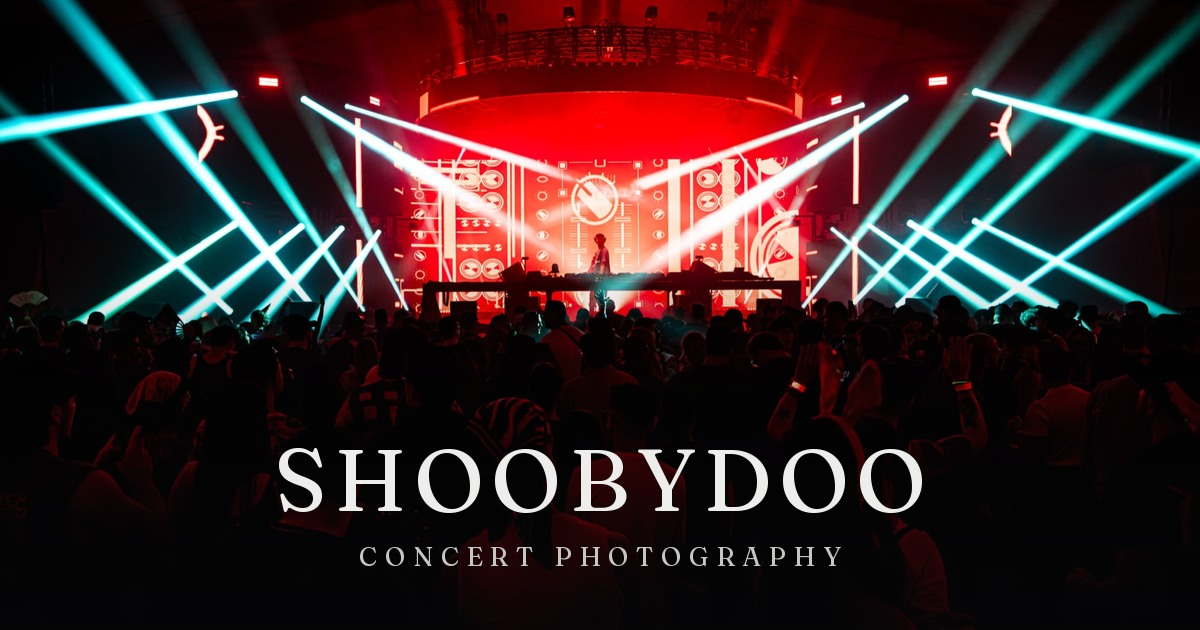
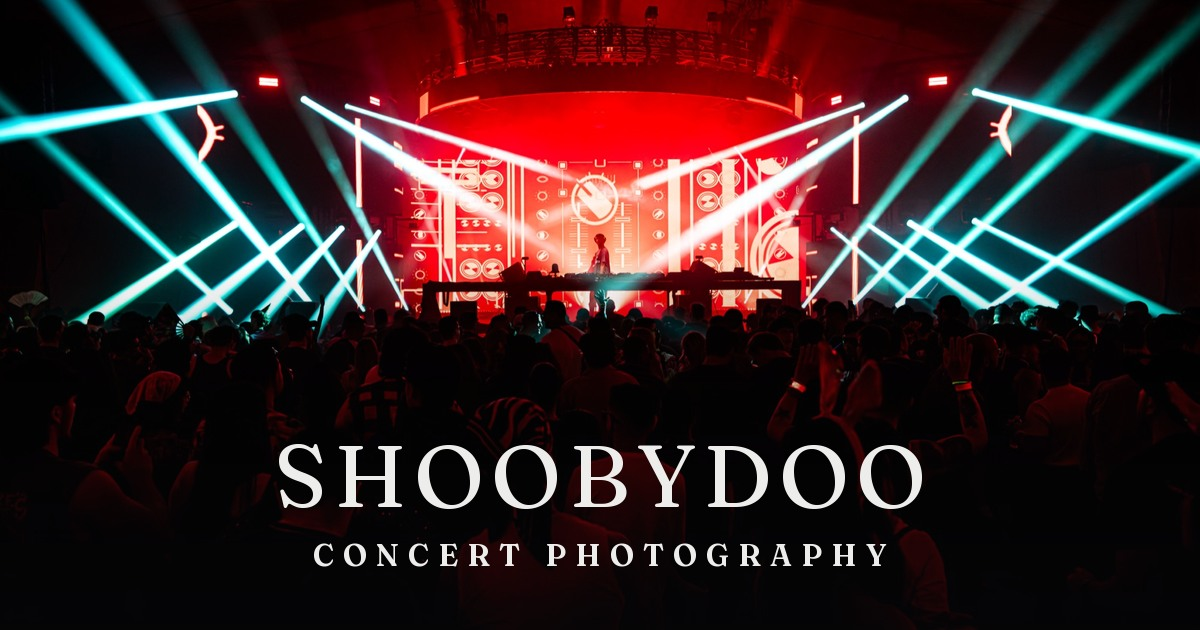
OG card: bolder, brighter Concert Photography tagline
The tagline was thin Fraunces 400 at 26px in muted grey and unreadable at
share-card sizes. Instantiate a semibold (600) cut from the same variable
woff2 the site ships, bump to 30px, and set it in the wordmark's ink white.

Changed region(s): [[0.2158, 0.6937, 0.7708, 0.8143], [0.2467, 0.8444, 0.74, 0.9048]]

diff --git a/scripts/make-og.py b/scripts/make-og.py
@@ -8,8 +8,9 @@ covered. Type matches SiteWordmark.tsx: Fraunces, uppercase, 0.08em tracking,
 
 Fraunces reaches the browser via next/font/google, which only ever writes woff2
 into .next/. PIL can't read woff2 and .next/ is regenerable, so the latin subset
-is instantiated at wght=400 and kept in scripts/og-assets/. To re-extract it
-after a font change, pull the Fraunces woff2 out of the build cache:
+is instantiated at wght=400 (wordmark) and wght=600 (tagline) and kept in
+scripts/og-assets/. To re-extract after a font change, pull the Fraunces woff2
+out of the build cache:
 
     grep -A1 'font-family: Fraunces' .next/dev/static/chunks/*fraunces*.css
 
@@ -32,16 +33,16 @@ from PIL import Image, ImageDraw, ImageFont
 ROOT = Path(__file__).resolve().parent.parent
 SOURCE = ROOT / "public/events/insomnia-2026/_7R45554-Enhanced-NR.jpg"
 FONT = ROOT / "scripts/og-assets/fraunces-400.ttf"
+TAGLINE_FONT = ROOT / "scripts/og-assets/fraunces-600.ttf"
 OUT = ROOT / "src/app/opengraph-image.jpg"
 
 W, H = 1200, 630  # the Open Graph standard; below this some scrapers use the small card
 INK = (237, 237, 235)  # #ededeb, the site's foreground
-MUTED = (198, 198, 194)
 
 WORDMARK = "SHOOBYDOO"
 TAGLINE = "CONCERT PHOTOGRAPHY"
 WORDMARK_SIZE = 88
-TAGLINE_SIZE = 26
+TAGLINE_SIZE = 30  # semibold and near-white so it survives small share cards
 TRACKING = 0.08  # matches SiteWordmark.tsx letterSpacing
 TAGLINE_TRACKING = 0.30
 BASELINE_INSET = 64
@@ -86,7 +87,7 @@ def main() -> None:
     draw = ImageDraw.Draw(img)
 
     wordmark = ImageFont.truetype(str(FONT), WORDMARK_SIZE)
-    tagline = ImageFont.truetype(str(FONT), TAGLINE_SIZE)
+    tagline = ImageFont.truetype(str(TAGLINE_FONT), TAGLINE_SIZE)
     wordmark_ascent = wordmark.getmetrics()[0]
     tagline_ascent = tagline.getmetrics()[0]
 
@@ -94,7 +95,7 @@ def main() -> None:
     wordmark_y = tagline_y - int(WORDMARK_SIZE * 0.34) - wordmark_ascent
 
     draw_tracked(draw, WORDMARK, wordmark, W / 2, wordmark_y, WORDMARK_SIZE * TRACKING, INK)
-    draw_tracked(draw, TAGLINE, tagline, W / 2, tagline_y, TAGLINE_SIZE * TAGLINE_TRACKING, MUTED)
+    draw_tracked(draw, TAGLINE, tagline, W / 2, tagline_y, TAGLINE_SIZE * TAGLINE_TRACKING, INK)
 
     img.save(OUT, quality=91)
     print(f"wrote {OUT.relative_to(ROOT)} ({OUT.stat().st_size // 1024} KB, {W}x{H})")
